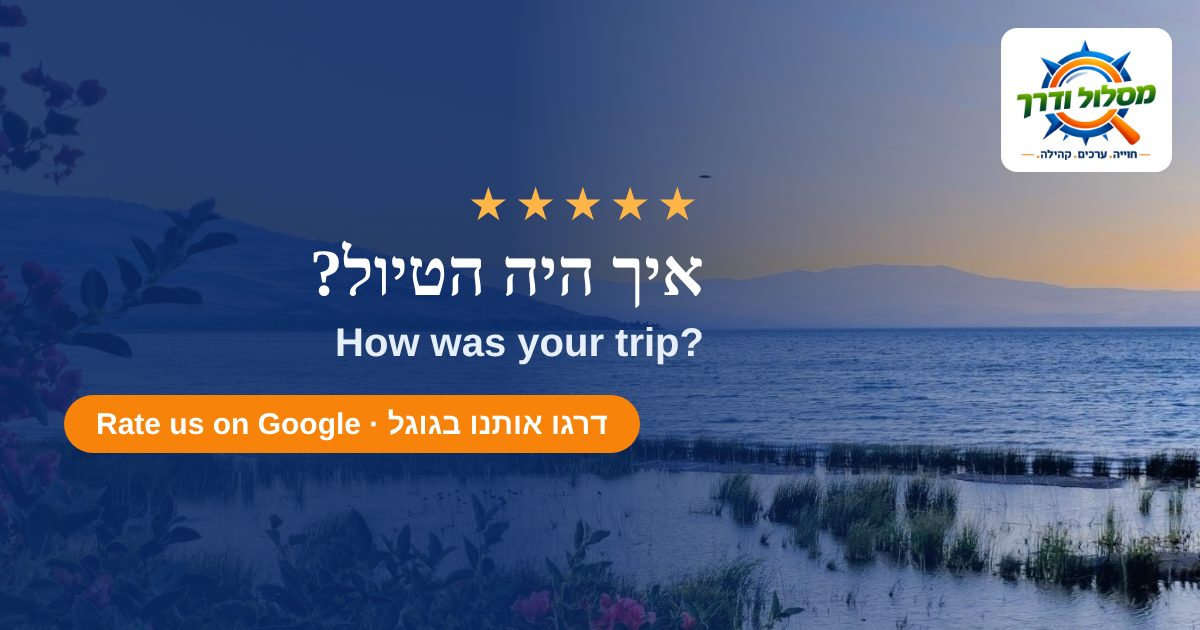
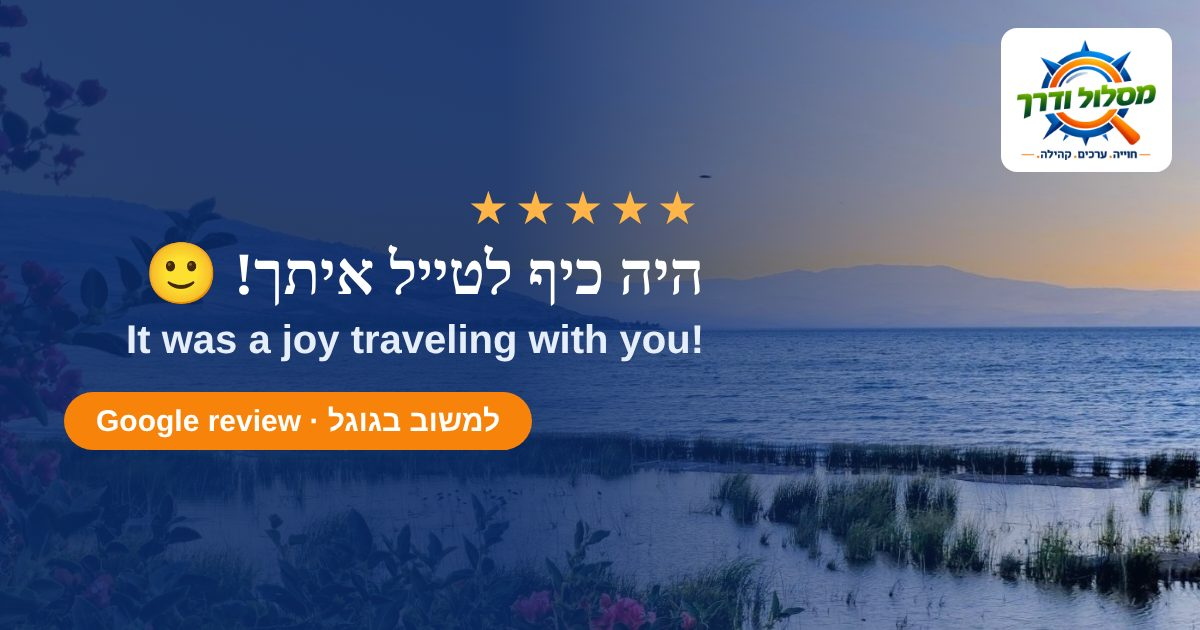
Review page: personal wording from Eshed, site's review link
Claude-Session: https://claude.ai/code/session_019sFTT2aJY1BdiV1sD3hdum

diff --git a/review.html b/review.html
@@ -1,22 +1,22 @@
 <!doctype html><html lang="he" dir="rtl" data-theme="light"><head><meta charset="utf-8">
 <meta name="viewport" content="width=device-width,initial-scale=1">
-<title>איך היה הטיול? How was your trip? | מסלול ודרך</title>
+<title>היי, כאן אשד 👋 | מסלול ודרך</title>
 <link rel="icon" type="image/png" href="favicon.png">
 <link rel="apple-touch-icon" href="apple-touch-icon.png">
-<meta name="description" content="נשמח לביקורת קצרה בגוגל · We'd love a quick Google review">
+<meta name="description" content="אם העליתי לך חיוך, אשמח לדקה מזמנך למשוב בגוגל. זה עוזר לי מאוד 🙏 · If I made you smile, a minute for a Google review would mean a lot.">
 <meta name="robots" content="noindex">
 <meta property="og:type" content="website">
 <meta property="og:site_name" content="מסלול ודרך">
 <meta property="og:locale" content="he_IL">
 <meta property="og:locale:alternate" content="en_US">
-<meta property="og:title" content="איך היה הטיול? ⭐ How was your trip?">
-<meta property="og:description" content="נשמח לביקורת קצרה בגוגל · We'd love a quick Google review">
+<meta property="og:title" content="היי, כאן אשד 👋">
+<meta property="og:description" content="אם העליתי לך חיוך, אשמח לדקה מזמנך למשוב בגוגל. זה עוזר לי מאוד 🙏 · If I made you smile, a minute for a Google review would mean a lot.">
 <meta property="og:url" content="https://maslul-derech.co.il/review">
 <meta property="og:image" content="https://maslul-derech.co.il/share-review.jpg">
 <meta property="og:image:width" content="1200">
 <meta property="og:image:height" content="630">
 <meta name="twitter:card" content="summary_large_image">
-<meta http-equiv="refresh" content="1; url=https://g.page/r/CZFeBMykwowLEBE/review">
+<meta http-equiv="refresh" content="1; url=https://g.page/r/CZFeBMykwowLEAE/review">
 <style>
 :root{color-scheme:light}
 body{margin:0;min-height:100vh;display:flex;align-items:center;justify-content:center;background:#F5F7FA;color:#16213A;font-family:Assistant,"Segoe UI",Arial,sans-serif;text-align:center;padding:16px;box-sizing:border-box}
@@ -30,7 +30,7 @@ a{display:inline-block;margin-top:20px;background:#F7830A;color:#fff;text-decora
 <img src="logo.png" alt="מסלול ודרך">
 <p>מעבירים אתכם לדף הביקורת בגוגל…</p>
 <p class="en">Taking you to our Google review page…</p>
-<a href="https://g.page/r/CZFeBMykwowLEBE/review">לחצו כאן · Click here</a>
+<a href="https://g.page/r/CZFeBMykwowLEAE/review">לחצו כאן · Click here</a>
 </div>
-<script>setTimeout(function(){location.replace("https://g.page/r/CZFeBMykwowLEBE/review")},300)</script>
+<script>setTimeout(function(){location.replace("https://g.page/r/CZFeBMykwowLEAE/review")},300)</script>
 </body></html>
